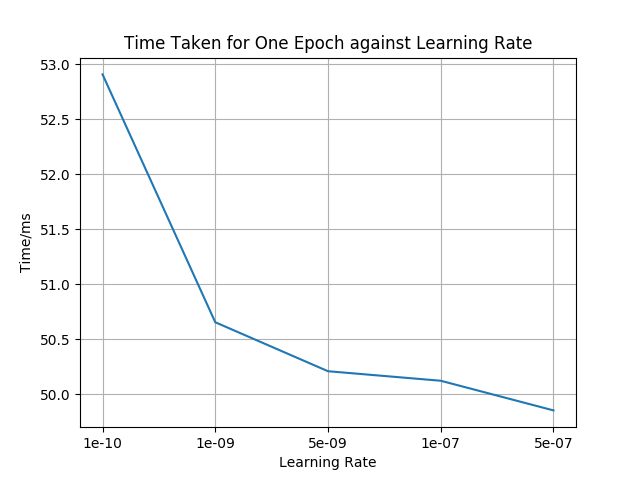
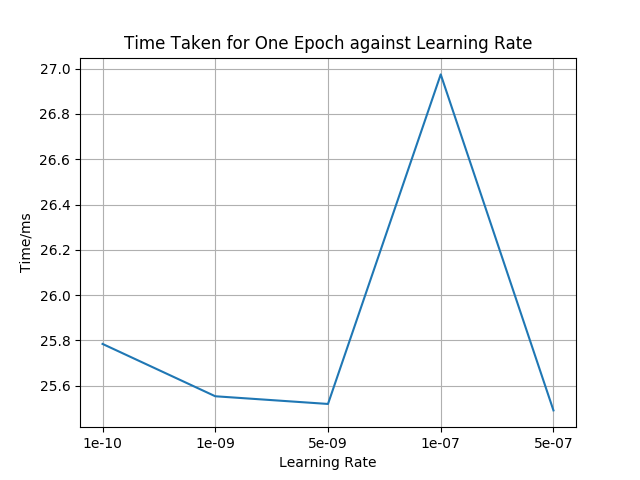
Update 2b plot

diff --git a/Assignment1/start_project_1bb.py b/Assignment1/start_project_1bb.py
@@ -319,41 +319,41 @@ def main():
     plt.savefig('figures/1b/2b_time_taken_for_one_epoch_vs_learning_rate.png')
 
 
-    print("="*50)
-    print("="*25 + "Results" + "="*25 )
-    print("="*50)
-    for i in range(len(learning_rate_list)):
-        print('Learning Rate: {}'.format(learning_rate_list[i]))
-        print('CV error: {}'.format(CV_list[i]))
-        print('Time per epoch: {}ms'.format(time_taken_one_epoch_list[i]))
-        print('-'*50)
-    #end for
+    # print("="*50)
+    # print("="*25 + "Results" + "="*25 )
+    # print("="*50)
+    # for i in range(len(learning_rate_list)):
+    #     print('Learning Rate: {}'.format(learning_rate_list[i]))
+    #     print('CV error: {}'.format(CV_list[i]))
+    #     print('Time per epoch: {}ms'.format(time_taken_one_epoch_list[i]))
+    #     print('-'*50)
+    # #end for
 
     # ==================================================
     # =========================Results=========================
     # ==================================================
     # Learning Rate: 1e-10
     # CV error: 31243259904.0
-    # Time per epoch: 25.867809009552005ms
+    # Time per epoch: 25.784738540649414ms
     # --------------------------------------------------
     # Learning Rate: 1e-09
     # CV error: 4593163264.0
-    # Time per epoch: 26.00145034790039ms
+    # Time per epoch: 25.553718757629394ms
     # --------------------------------------------------
     # Learning Rate: 5e-09
     # CV error: 4248844800.0
-    # Time per epoch: 25.7764760017395ms
+    # Time per epoch: 25.519759464263917ms
     # --------------------------------------------------
     # Learning Rate: 1e-07
     # CV error: 4062203904.0
-    # Time per epoch: 25.954257774353028ms
+    # Time per epoch: 26.97435426712036ms
     # --------------------------------------------------
     # Learning Rate: 5e-07
     # CV error: 4227072000.0
-    # Time per epoch: 26.08066396713257ms
+    # Time per epoch: 25.491313552856447ms
     # --------------------------------------------------
 
-    optimal_learning_rate = 1 * 10**(-7)
+    optimal_learning_rate = 10**(-7)
 
     regressor = CVRegressor(features_dim=NUM_FEATURES, output_dim=1,
                             hidden_layer_dict={1: 30}, learning_rate=optimal_learning_rate)
